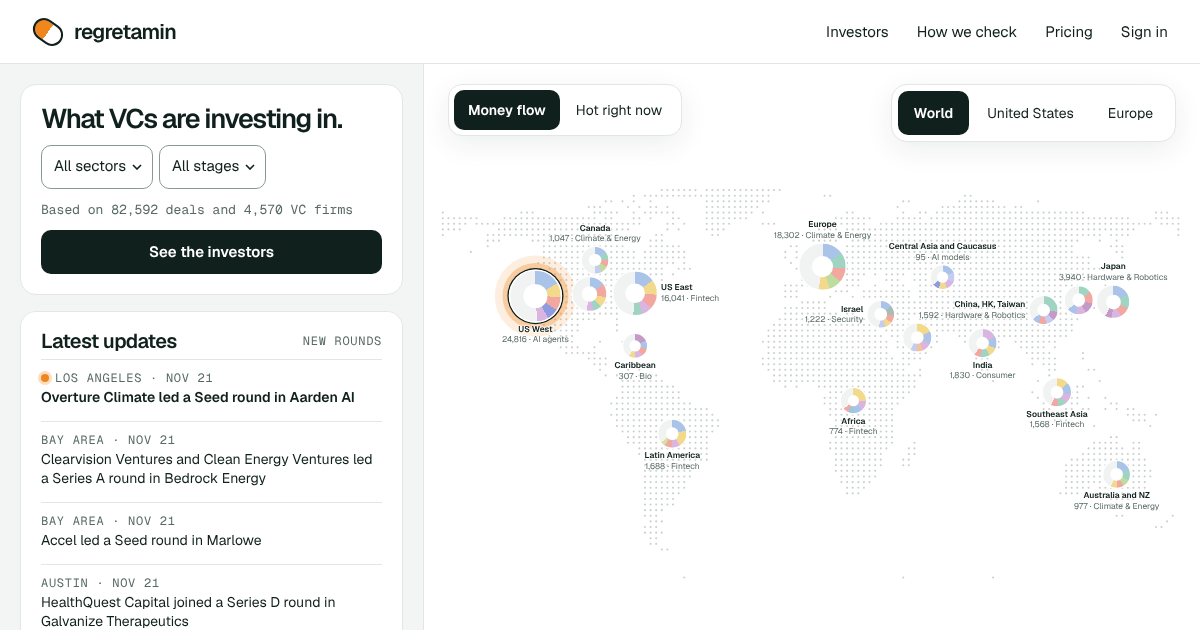
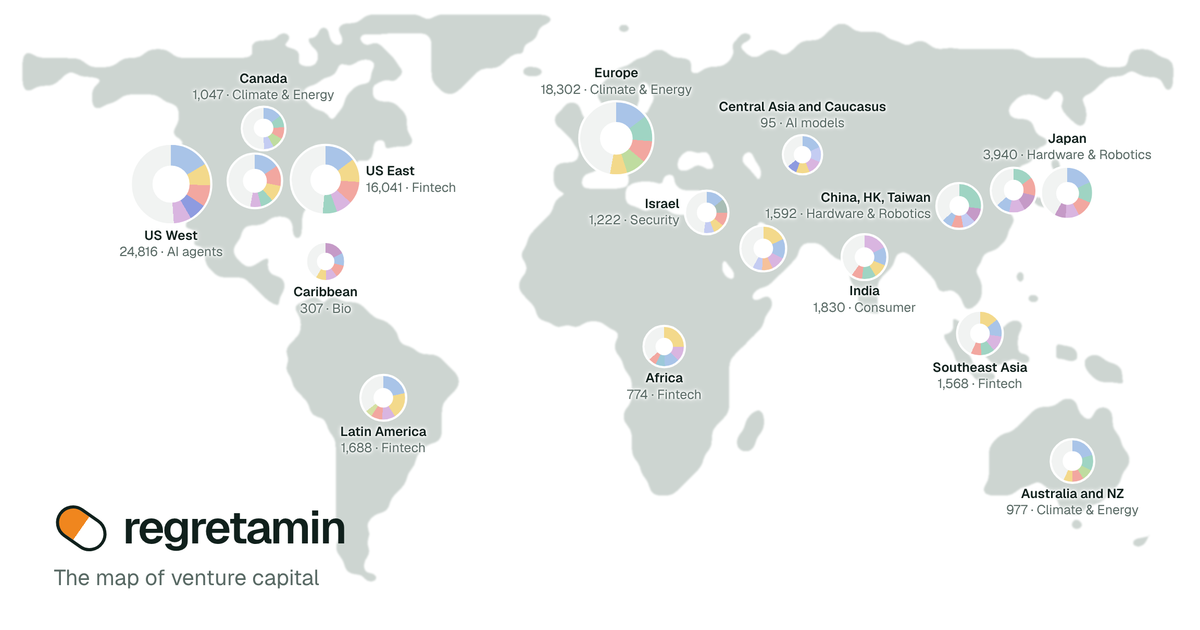
Share picture: map only with smooth land and the name; smooth land on the 'Where they invest' card
Founder: the map-only picture 'looks good'; square blocks were ugly (23 Nov).

Claude-Session: https://claude.ai/code/session_01MSMNJWpST3rY1PfuMMG21o

diff --git a/launch/build.py b/launch/build.py
@@ -401,13 +401,17 @@ def main():
     shutil.copytree(os.path.join(HERE, 'fav'), os.path.join(OUT, 'fav'))
     shutil.copytree(os.path.join(HERE, 'assets', 'video'), os.path.join(OUT, 'assets', 'video'))
     shutil.copytree(os.path.join(HERE, 'assets', 'map'), os.path.join(OUT, 'assets', 'map'))  # backgrounds and coordinates for /map/ (tools/map/gen_assets.cjs)
-    # The "Where they invest" card on a firm page shows the same maps as solid grey land, not dots (founder, 23 Nov:
-    # the dotted map did not show on the grey card). Made here from the dotted files: each dot becomes a square that
-    # fills its grid cell (the grid step is 8 for the world and the US, 6 for Europe).
+    # The "Where they invest" card on a firm page shows the same maps as smooth grey land, not dots (founder, 23 Nov:
+    # the dots did not show at that size, and square blocks looked ugly). Made here from the dotted files: each dot
+    # becomes a square that fills its grid cell (step 8 for the world and the US, 6 for Europe), then a blur and a
+    # hard edge round the corners off.
     for level, step in (('world', 8), ('us', 8), ('eu', 6)):
         svg = open(os.path.join(HERE, 'assets', 'map', level + '.svg')).read()
         solid = svg.replace('stroke-width="3"', f'stroke-width="{step + 0.6}"').replace('stroke-linecap="round"', 'stroke-linecap="square"').replace('stroke="#C9D1CE"', 'stroke="#C4CDC9"')
-        if solid == svg or 'stroke-linecap="square"' not in solid: raise SystemExit('launch build: ' + level + '.svg is not the dotted map this step expects')
+        smooth = (f'<filter id="s" x="-5%" y="-5%" width="110%" height="110%"><feGaussianBlur stdDeviation="{step * 0.62:.2f}"/>'
+                  '<feColorMatrix values="1 0 0 0 0  0 1 0 0 0  0 0 1 0 0  0 0 0 26 -12"/></filter>')
+        solid = solid.replace('<path ', smooth + '<path filter="url(#s)" ', 1)
+        if 'stroke-linecap="square"' not in solid or 'filter="url(#s)"' not in solid: raise SystemExit('launch build: ' + level + '.svg is not the dotted map this step expects')
         open(os.path.join(OUT, 'assets', 'map', level + '-solid.svg'), 'w').write(solid)
     shutil.copytree(os.path.join(HERE, 'assets', 'fonts'), os.path.join(OUT, 'assets', 'fonts'))  # Geist files the firm share card is drawn with (edge/card/share.mjs)
     shutil.copytree(os.path.join(HERE, 'assets', 'share'), os.path.join(OUT, 'assets', 'share'))  # the picture for shared links (og:image)
